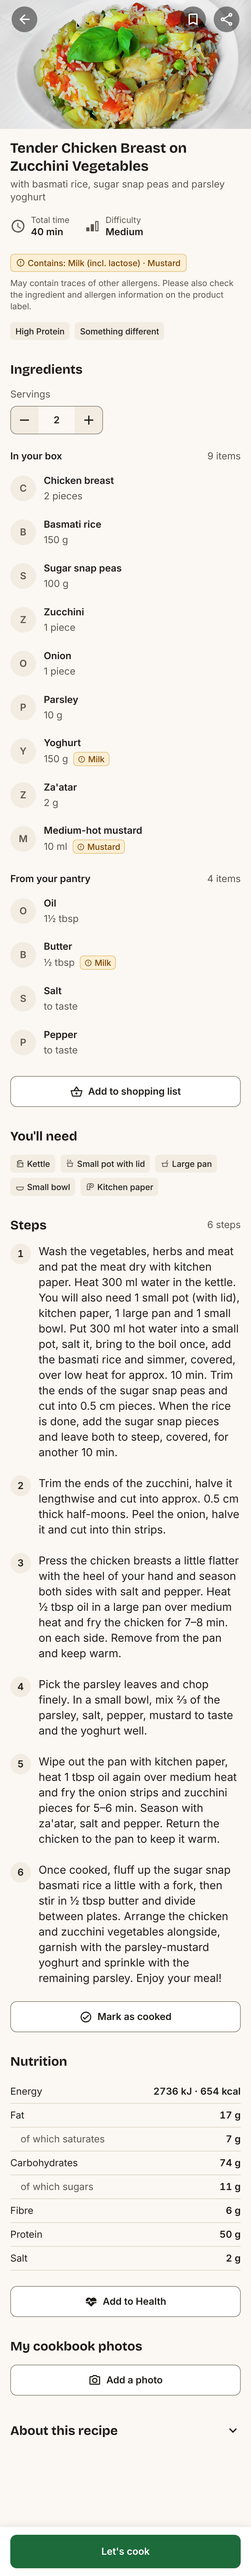
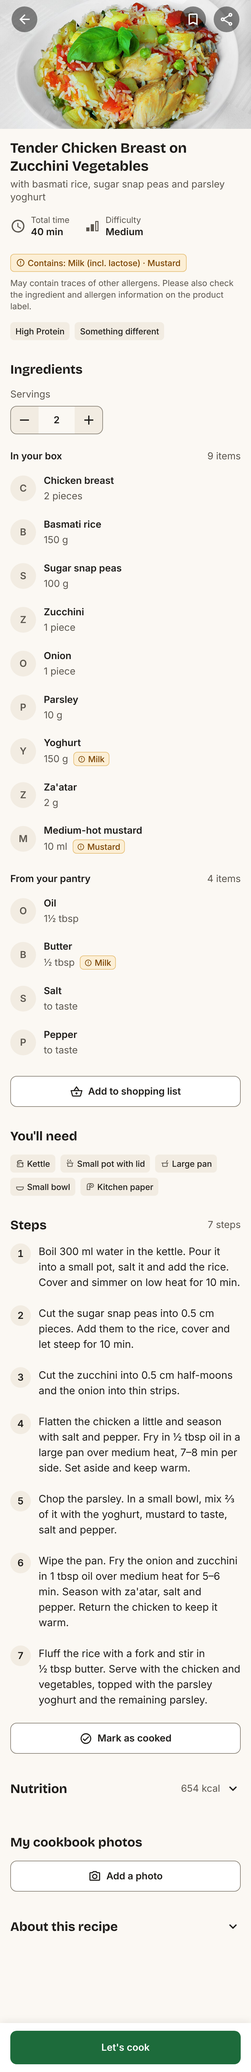
Shorter steps, collapsed nutrition, 16 pt body text
- Steps rewritten to 7 short steps, one task each, without obvious prep
  (content.md updated, original kept for reference)
- Nutrition collapsible, starts collapsed with '654 kcal'; Add to Health
  inside it
- type.body 17/24 -> 16/24; amounts in steps never split across lines
- RecipeDetail.md, SectionHeader.md, Step.md, tokens.md, decisions
  updated; page 3858 -> 3076 pt at 2 servings

Claude-Session: https://claude.ai/code/session_01Nt62VDTQhttFTqkyUPVqAi

diff --git a/src/data/recipe.ts b/src/data/recipe.ts
@@ -41,6 +41,8 @@ export type Recipe = {
   equipment: Equipment[];
   steps: StepPart[][];
   nutrition: NutritionItem[];
+  /** Shown next to the collapsed Nutrition header. */
+  nutritionSummary: string;
 };
 
 export const recipe: Recipe = {
@@ -88,46 +90,34 @@ export const recipe: Recipe = {
     { name: 'Small bowl', icon: 'bowl' },
     { name: 'Kitchen paper', icon: 'paper' },
   ],
-  // Steps from content.md, word for word, except "300 ml [600 ml]"-style brackets: amounts are stored
-  // for 2 servings and follow the stepper.
+  // Steps from content.md (shortened 2026-10-16: one task per step, obvious prep like washing left out).
+  // Amounts are stored for 2 servings and follow the stepper.
   steps: [
     [
-      'Wash the vegetables, herbs and meat and pat the meat dry with kitchen paper. Heat ',
+      'Boil ',
       { quantity: 300, unit: 'ml' },
-      ' water in the kettle. You will also need 1 small pot (with lid), kitchen paper, 1 large pan and ' +
-        '1 small bowl. Put ',
-      { quantity: 300, unit: 'ml' },
-      ' hot water into a small pot, salt it, bring to the boil once, add the basmati rice and simmer, ' +
-        'covered, over low heat for approx. 10 min. Trim the ends of the sugar snap peas and cut into ' +
-        '0.5 cm pieces. When the rice is done, add the sugar snap pieces and leave both to steep, covered, ' +
-        'for another 10 min.',
+      ' water in the kettle. Pour it into a small pot, salt it and add the rice. Cover and simmer on low ' +
+        'heat for 10 min.',
     ],
+    ['Cut the sugar snap peas into 0.5 cm pieces. Add them to the rice, cover and let steep for 10 min.'],
+    ['Cut the zucchini into 0.5 cm half-moons and the onion into thin strips.'],
     [
-      'Trim the ends of the zucchini, halve it lengthwise and cut into approx. 0.5 cm thick half-moons. ' +
-        'Peel the onion, halve it and cut into thin strips.',
-    ],
-    [
-      'Press the chicken breasts a little flatter with the heel of your hand and season both sides with ' +
-        'salt and pepper. Heat ',
+      'Flatten the chicken a little and season with salt and pepper. Fry in ',
       { quantity: 0.5, unit: 'tbsp' },
-      ' oil in a large pan over medium heat and fry the chicken for 7–8 min. on each side. Remove from ' +
-        'the pan and keep warm.',
+      ' oil in a large pan over medium heat, 7–8 min per side. Set aside and keep warm.',
     ],
+    ['Chop the parsley. In a small bowl, mix ⅔ of it with the yoghurt, mustard to taste, salt and pepper.'],
     [
-      'Pick the parsley leaves and chop finely. In a small bowl, mix ⅔ of the parsley, salt, pepper, ' +
-        'mustard to taste and the yoghurt well.',
-    ],
-    [
-      'Wipe out the pan with kitchen paper, heat ',
+      'Wipe the pan. Fry the onion and zucchini in ',
       { quantity: 1, unit: 'tbsp' },
-      ' oil again over medium heat and fry the onion strips and zucchini pieces for 5–6 min. Season with ' +
-        "za'atar, salt and pepper. Return the chicken to the pan to keep it warm.",
+      " oil over medium heat for 5–6 min. Season with za'atar, salt and pepper. Return the chicken to keep " +
+        'it warm.',
     ],
     [
-      'Once cooked, fluff up the sugar snap basmati rice a little with a fork, then stir in ',
+      'Fluff the rice with a fork and stir in ',
       { quantity: 0.5, unit: 'tbsp' },
-      ' butter and divide between plates. Arrange the chicken and zucchini vegetables alongside, garnish ' +
-        'with the parsley-mustard yoghurt and sprinkle with the remaining parsley. Enjoy your meal!',
+      ' butter. Serve with the chicken and vegetables, topped with the parsley yoghurt and the remaining ' +
+        'parsley.',
     ],
   ],
   // content.md doesn't say whether these are per serving, so they don't scale (docs/decisions.md).
@@ -141,6 +131,7 @@ export const recipe: Recipe = {
     { label: 'Protein', value: '50 g' },
     { label: 'Salt', value: '2 g' },
   ],
+  nutritionSummary: '654 kcal',
 };
 
 // ─── Scaling ─────────────────────────────────────────────────────────────────
@@ -184,5 +175,6 @@ export function scaleAmount(amount: Amount, servings: number): string {
 
 /** A step's text for the chosen servings: "Heat 300 ml water…" at 2, "Heat 600 ml water…" at 4. */
 export function stepText(parts: StepPart[], servings: number): string {
-  return parts.map((p) => (typeof p === 'string' ? p : scaleAmount(p, servings))).join('');
+  // A non-breaking space keeps "½ tbsp" together on one line.
+  return parts.map((p) => (typeof p === 'string' ? p : scaleAmount(p, servings).replace(' ', '\u00A0'))).join('');
 }

diff --git a/app/index.tsx b/app/index.tsx
@@ -33,7 +33,7 @@ const notBuiltYet = () => {};
 /**
  * Recipe detail screen. Order (CLAUDE.md):
  * photo with Back / Save / Share → title, subtitle → total time, difficulty → allergen row → recipe tags →
- * Ingredients → "You'll need" → Steps → Mark as cooked → Nutrition → Add to Health →
+ * Ingredients → "You'll need" → Steps → Mark as cooked → Nutrition (collapsed, with Add to Health) →
  * My cookbook photos → "About this recipe" (collapsed) → sticky "Let's cook".
  */
 export default function RecipeScreen() {
@@ -41,6 +41,7 @@ export default function RecipeScreen() {
   const [servings, setServings] = useState(BASE_SERVINGS);
   const [saved, setSaved] = useState(false);
   const [aboutOpen, setAboutOpen] = useState(false);
+  const [nutritionOpen, setNutritionOpen] = useState(false);
   const [photos, setPhotos] = useState<string[]>([]);
 
   const goBack = () => {
@@ -193,16 +194,26 @@ export default function RecipeScreen() {
             <Button label="Mark as cooked" icon="check" onPress={notBuiltYet} />
           </View>
 
-          {/* Nutrition */}
-          <SectionHeader title="Nutrition" />
-          <View>
-            {recipe.nutrition.map((n) => (
-              <NutritionRow key={n.label} label={n.label} value={n.value} ofWhich={n.ofWhich} />
-            ))}
-          </View>
-          <View style={{ marginTop: space[6] }}>
-            <Button label="Add to Health" icon="health" onPress={notBuiltYet} />
-          </View>
+          {/* Nutrition: collapsed by default; "Add to Health" belongs to it */}
+          <SectionHeader
+            title="Nutrition"
+            meta={recipe.nutritionSummary}
+            collapsible
+            expanded={nutritionOpen}
+            onToggle={() => setNutritionOpen((open) => !open)}
+          />
+          {nutritionOpen && (
+            <>
+              <View>
+                {recipe.nutrition.map((n) => (
+                  <NutritionRow key={n.label} label={n.label} value={n.value} ofWhich={n.ofWhich} />
+                ))}
+              </View>
+              <View style={{ marginTop: space[6] }}>
+                <Button label="Add to Health" icon="health" onPress={notBuiltYet} />
+              </View>
+            </>
+          )}
 
           {/* My cookbook photos */}
           <SectionHeader

diff --git a/src/theme/tokens.ts b/src/theme/tokens.ts
@@ -130,7 +130,7 @@ export const font = {
 export const type = {
   title: { fontFamily: font.family.headingBold, fontSize: 22, lineHeight: 28 }, // was 26/32 (decisions.md)
   heading: { fontFamily: font.family.headingBold, fontSize: 20, lineHeight: 26 },
-  body: { fontFamily: font.family.bodyRegular, fontSize: 17, lineHeight: 24 },
+  body: { fontFamily: font.family.bodyRegular, fontSize: 16, lineHeight: 24 }, // was 17/24 (decisions.md)
   label: { fontFamily: font.family.bodySemiBold, fontSize: 15, lineHeight: 20 },
   meta: { fontFamily: font.family.bodyRegular, fontSize: 15, lineHeight: 20 },
   tag: { fontFamily: font.family.bodyMedium, fontSize: 13, lineHeight: 16 },

diff --git a/design-system/screens/RecipeDetail.md b/design-system/screens/RecipeDetail.md
@@ -31,10 +31,10 @@ spacing (section: `space.8` above / `space.4` below; group: `space.6` / `space.3
 | 12 | From your pantry | `SectionHeader level="group"` "From your pantry", meta "4 items"; then `IngredientRow variant="pantry"` list, `space.3` gaps | `recipe.fromYourPantry` | (header) |
 | 13 | Add to shopping list | `Button` secondary, `icon="basket"`, full width | – | `space.6` |
 | 14 | You'll need | `SectionHeader` "You'll need"; `Tag variant="equipment"` chips in a wrapping row, `space.2` gaps | `recipe.equipment` | (header) |
-| 15 | Steps | `SectionHeader` "Steps", meta "6 steps"; `Step` list, `space.6` gaps | `recipe.steps` | (header) |
+| 15 | Steps | `SectionHeader` "Steps", meta "7 steps"; `Step` list, `space.6` gaps. Short steps, one task each (content.md) | `recipe.steps` | (header) |
 | 16 | Mark as cooked | `Button` secondary, `icon="check"` | – | `space.6` |
-| 17 | Nutrition | `SectionHeader` "Nutrition"; `NutritionRow` list ("of which" rows use `ofWhich`) | `recipe.nutrition` | (header) |
-| 18 | Add to Health | `Button` secondary, `icon="health"` | – | `space.6` |
+| 17 | Nutrition | `SectionHeader` "Nutrition", meta "654 kcal", collapsible, **starts collapsed**; when expanded, `NutritionRow` list ("of which" rows use `ofWhich`) | `recipe.nutrition`, `recipe.nutritionSummary` | (header) |
+| 18 | Add to Health | Inside the expanded Nutrition section: `Button` secondary, `icon="health"` | – | `space.6` |
 | 19 | My cookbook photos | `SectionHeader` "My cookbook photos" (meta "1 photo" / "N photos" once there are any); picked photos as `Image` thumbnails `size.image.cookbook`, `radius.md`, wrapping row, `space.2` gaps, `space.4` below | photos picked this session | (header) |
 | 20 | Add a photo | `Button` secondary, `icon="camera"` | – | 0 (or `space.4` below the thumbnails) |
 | 21 | About this recipe | `SectionHeader` "About this recipe", collapsible, **starts collapsed**; when expanded, `Text` `type.body`, `color.text.primary` | `recipe.description` | (header) |
@@ -54,16 +54,17 @@ The scroll content ends with `space.12` bottom padding so nothing hides behind t
 | Mark as cooked | Not built yet (needs an account). |
 | Add to Health | Not built yet (needs Apple Health / Health Connect). |
 | Add a photo | Opens the photo library; picked photos appear under "My cookbook photos" for this session. |
-| About this recipe | Tap the header to expand / collapse. |
+| About this recipe, Nutrition | Tap the header to expand / collapse. |
 | Let's cook | Not built yet (opens cook mode). |
 
 Nutrition values are shown as given and **do not** scale with servings (content.md doesn't say what
 they are per).
 
 ## States
-- **Default:** servings 2, About collapsed, not saved, no cookbook photos.
+- **Default:** servings 2, Nutrition and About collapsed, not saved, no cookbook photos.
 - **Changed servings (1–6):** all amounts update; minus disabled at 1, plus disabled at 6.
 - **Saved:** filled bookmark; screen readers hear "Saved, double-tap to remove".
+- **Nutrition expanded:** the table and "Add to Health" shown; chevron points up.
 - **About expanded:** description shown under its header; chevron points up.
 - **With cookbook photos:** thumbnails above "Add a photo", count in the header meta.
 - **Photo loading or missing:** the photo area shows `color.bg.subtle`.
@@ -86,7 +87,8 @@ they are per).
 ## Don't
 - Don't show bracketed amounts ("300 ml [600 ml]") anywhere, including the steps.
 - Don't add a second entry into cook mode or a second "Add to shopping list".
-- Don't make Ingredients, the allergen row, "You'll need" or Steps collapsible.
+- Don't make Ingredients, the allergen row, "You'll need" or Steps collapsible. Only Nutrition and About are.
+- Don't let an amount break across lines in a step ("½" / "tbsp").
 - Don't add content that isn't in `docs/content.md`.
 
 ## Change log

diff --git a/docs/content.md b/docs/content.md
@@ -51,7 +51,25 @@ Amounts scale with the serving stepper (2 → 4 doubles them).
 
 Kettle · Small pot with lid · Large pan · Small bowl · Kitchen paper
 
-## Steps (original, translated; in the build since 2026-10-16, amounts without brackets, scaled to servings)
+## Steps (in the build; shortened 2026-10-16)
+
+Rewritten to one task per step. Obvious prep (washing vegetables, herbs and meat; patting dry) is left
+out. Amounts are for 2 servings and scale with the stepper; no bracketed amounts.
+
+1. Boil 300 ml water in the kettle. Pour it into a small pot, salt it and add the rice. Cover and simmer
+   on low heat for 10 min.
+2. Cut the sugar snap peas into 0.5 cm pieces. Add them to the rice, cover and let steep for 10 min.
+3. Cut the zucchini into 0.5 cm half-moons and the onion into thin strips.
+4. Flatten the chicken a little and season with salt and pepper. Fry in ½ tbsp oil in a large pan over
+   medium heat, 7–8 min per side. Set aside and keep warm.
+5. Chop the parsley. In a small bowl, mix ⅔ of it with the yoghurt, mustard to taste, salt and pepper.
+6. Wipe the pan. Fry the onion and zucchini in 1 tbsp oil over medium heat for 5–6 min. Season with
+   za'atar, salt and pepper. Return the chicken to keep it warm.
+7. Fluff the rice with a fork and stir in ½ tbsp butter. Serve with the chicken and vegetables, topped
+   with the parsley yoghurt and the remaining parsley.
+
+<details>
+<summary>Original steps (translated from the app, for reference)</summary>
 
 1. Wash the vegetables, herbs and meat and pat the meat dry with kitchen paper. Heat 300 ml [600 ml] water
    in the kettle. You will also need 1 small pot (with lid), kitchen paper, 1 large pan and 1 small bowl.
@@ -72,6 +90,8 @@ Kettle · Small pot with lid · Large pan · Small bowl · Kitchen paper
 6. Once cooked, fluff up the sugar snap basmati rice a little with a fork, then stir in ½ tbsp [1 tbsp]
    butter and divide between plates. Arrange the chicken and zucchini vegetables alongside, garnish with the
    parsley-mustard yoghurt and sprinkle with the remaining parsley. Enjoy your meal!
+
+</details>
 
 ## Lower on the page (in the build since 2026-10-16)
 

diff --git a/docs/decisions.md b/docs/decisions.md
@@ -42,3 +42,7 @@ Decisions that aren't in the specs, with the reason. Newest at the bottom.
 | 2026-10-16 | Add a photo opens the photo library (`expo-image-picker`) and shows picked photos as 88 pt thumbnails for this session only. Mark as cooked and Add to Health do nothing yet. | Saving photos, cooked state and Health need an account / Apple Health / Health Connect, which the prototype doesn't have. |
 | 2026-10-16 | `spokenAmount` moved to `src/data/spoken.ts` (also spells out min, kJ, kcal). | Used by IngredientRow, InfoItem and NutritionRow. |
 | 2026-10-16 | New screen spec `design-system/screens/RecipeDetail.md`, written from the current build; CLAUDE.md reads it before coding and points to it for the screen order. | The page had no spec, so page-level choices (spacing, behaviour) lived only in code and this log. Now the spec is the source of truth. |
+| 2026-10-16 | Steps rewritten to 7 short steps, one task each; washing and other obvious prep left out. content.md updated (original kept for reference). Steps block 1218 → 786 pt. | Shorter steps are easier to follow with busy hands (analysis friction point #5). |
+| 2026-10-16 | Nutrition is collapsible and starts collapsed, showing "654 kcal" next to the header; "Add to Health" sits inside it. SectionHeader.md updated. | Brings the page length down (3858 → 3076 pt at 2 servings); the calorie count stays visible. |
+| 2026-10-16 | `type.body` 17/24 → 16/24. | Steps and description take fewer lines; still comfortable to read. |
+| 2026-10-16 | Amounts inside steps use a non-breaking space ("½ tbsp" never splits across lines). | A split amount is easy to misread mid-cooking. |

diff --git a/design-system/tokens.md b/design-system/tokens.md
@@ -124,7 +124,7 @@ Size tokens:
 |---|---|---|---|---|
 | `type.title` | Bricolage Grotesque Bold | 22 / 28 | Recipe title | Clear hierarchy; the only text this large on the screen. Was 26 / 32; reduced on 2026-10-16 so long titles take less room. |
 | `type.heading` | Bricolage Grotesque Bold | 20 / 26 | Section headers ("In your box") | Easy to spot when scanning back while cooking. |
-| `type.body` | Inter Regular | 17 / 24 | Subtitle, description, steps | 17 pt is the iOS default body size; comfortable reading distance. |
+| `type.body` | Inter Regular | 16 / 24 | Description, steps | Comfortable at arm's length while cooking; reduced from 17 on 2026-10-16 so steps take fewer lines. The 24 line height keeps it airy. |
 | `type.label` | Inter SemiBold | 15 / 20 | Ingredient names, button labels | Names should stand out from their amounts. |
 | `type.meta` | Inter Regular | 15 / 20 | Amounts, time, difficulty | Same size as labels, lighter weight and secondary colour, so the pair reads as one unit. |
 | `type.tag` | Inter Medium | 13 / 16 | Tags, allergen tag | Small but not tiny; 13 pt is the smallest size used. |

diff --git a/design-system/components/Step.md b/design-system/components/Step.md
@@ -12,7 +12,7 @@ One cooking step. Amounts in the text follow the servings stepper, so nobody doe
 | Prop | Type | Default | Notes |
 |---|---|---|---|
 | `number` | number | — | Required. 1, 2, 3 … |
-| `text` | text | — | Required. From content.md, with amounts already scaled. |
+| `text` | text | — | Required. From content.md, with amounts already scaled and kept on one line. |
 
 ## Layout
 - Row, top-aligned. Number circle → text gap `space.3`.
@@ -32,7 +32,7 @@ Static. (Ticking off steps belongs to cook mode.)
 - Read as one item: "Step 3. Press the chicken breasts…".
 
 ## Do
-- Keep the original wording from content.md; only replace bracketed amounts with the scaled amount.
+- Use the step wording from content.md: short, one task per step, no obvious prep (washing).
 
 ## Don't
 - Don't show amounts for other serving sizes in brackets.

diff --git a/design-system/components/SectionHeader.md b/design-system/components/SectionHeader.md
@@ -42,7 +42,7 @@ Names a block of content so people can find their place again while cooking:
 - Collapsible headers are buttons with an "expanded / collapsed" state; tap area is the full row, at least 44 high.
 
 ## Do
-- Only "About this recipe" (description) is collapsible on this screen, and it starts collapsed.
+- Only "Nutrition" and "About this recipe" are collapsible on this screen, and both start collapsed.
 
 ## Don't
 - Don't make Ingredients, the allergen row or "You'll need" collapsible: they're the point of the screen.
